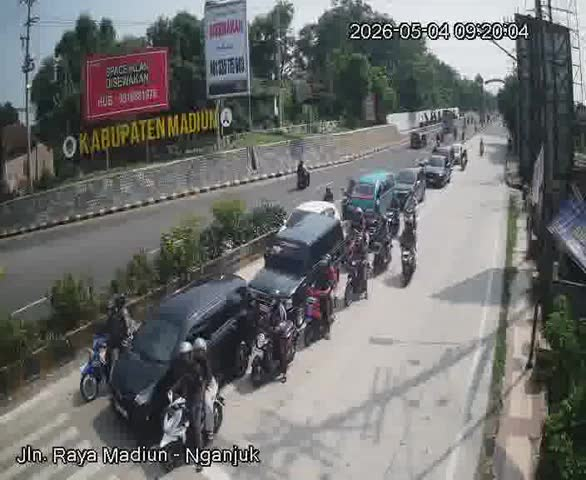
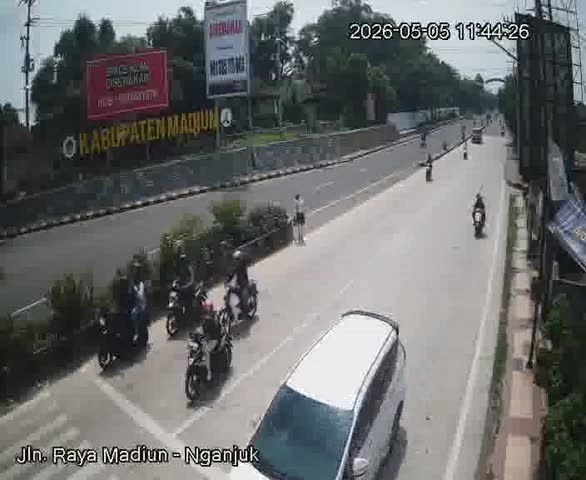
lanjutkan

diff --git a/app.py b/app.py
@@ -80,8 +80,6 @@ def load_yolo():
     logging.info("YOLO loaded successfully")
     return model
 
-
-# ========= DRAW BOX =========
 COLORS = {
     "car": ((255, 100, 0), (200, 70, 0)),
     "motorcycle": ((0, 200, 255), (0, 160, 200)),
@@ -109,8 +107,6 @@ def draw_modern_box(frame, x1, y1, x2, y2, label, conf):
     cv2.rectangle(frame, (x1, bg_y1), (x1 + tw + padding * 2, bg_y2), bg_color, -1)
     cv2.putText(frame, text, (x1 + padding, bg_y2 - padding), font, 0.45, (255, 255, 255), 1, cv2.LINE_AA)
 
-
-# ========= DB (SQLite) =========
 def create_db():
     os.makedirs(os.path.dirname(DB_PATH), exist_ok=True)
     conn = sqlite3.connect(DB_PATH)
@@ -130,7 +126,6 @@ def create_db():
         )
     ''')
 
-    # biar 1 record per (cctv_id, date, hour)
     cursor.execute('''
         CREATE UNIQUE INDEX IF NOT EXISTS uq_traffic_key
         ON traffic_data (cctv_id, date, hour)
